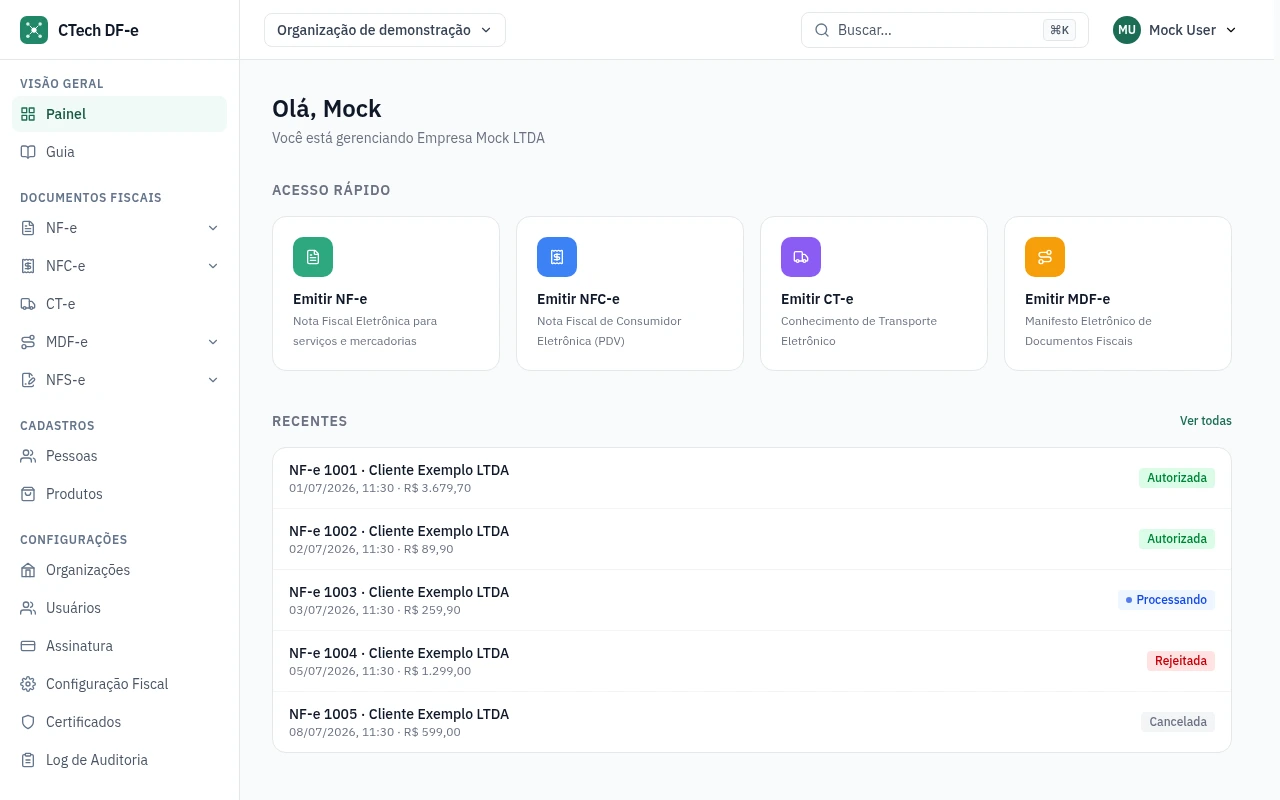
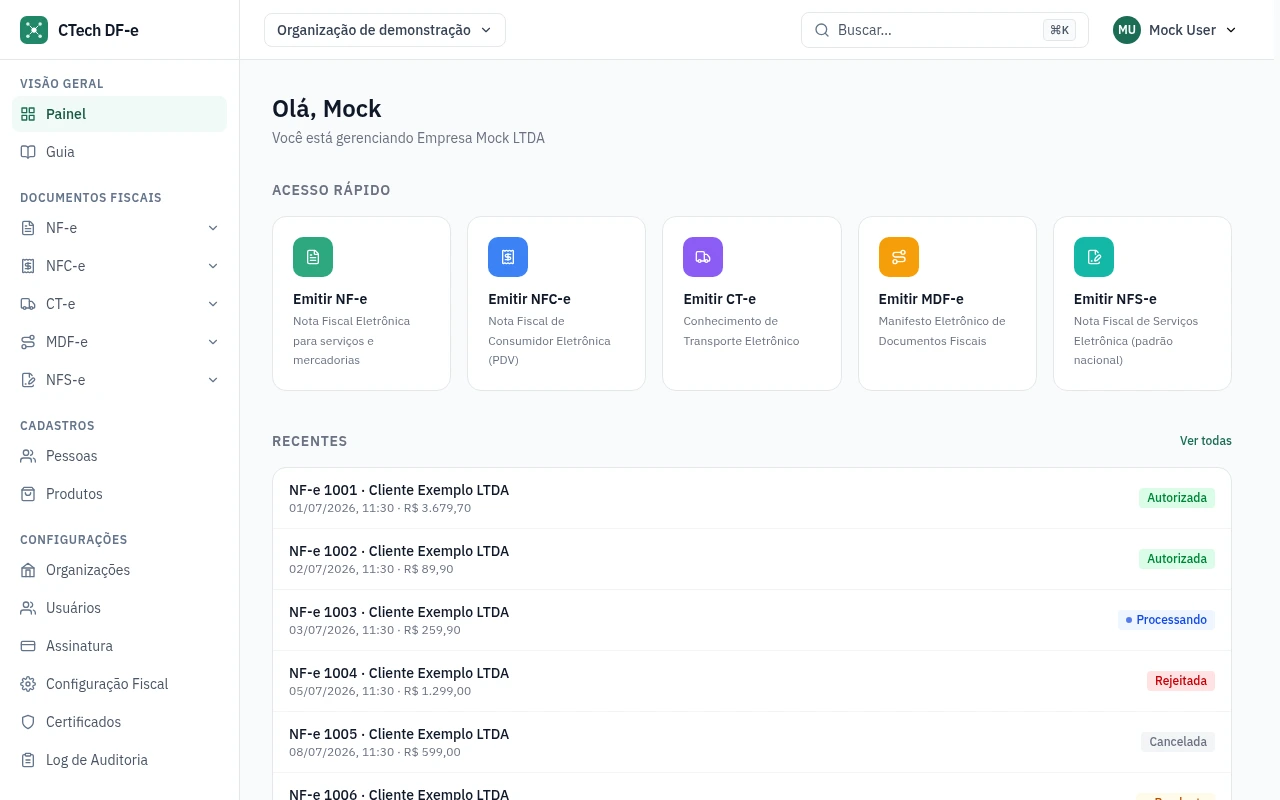
feat: planos so do produto DF-e e NFS-e na landing e no acesso rapido (#225)
- api: /billing/plans devolve apenas prod_dfe e a escolha de preco de outro produto e recusada
- ui: catalogo de planos ignora outros produtos
- ui: NFS-e entra em Documentos suportados, no card animado e no Acesso rapido da home

diff --git a/ui/src/__tests__/lib/billing-catalog.test.ts b/ui/src/__tests__/lib/billing-catalog.test.ts
@@ -19,7 +19,7 @@ describe('buildPlanOptions', () => {
   it('hides the internal plan; offering it would give away an unlimited subscription', () => {
     const products: BillingProduct[] = [
       {
-        id: 'prod_dfe_unlimited_internal',
+        id: 'prod_dfe',
         name: 'DF-e Ilimitado - Interno',
         active: true,
         prices: [price({id: 'p_internal', metadata: {plan: 'unlimited', visibility: 'internal'}})],
@@ -31,13 +31,13 @@ describe('buildPlanOptions', () => {
   it('drops archived prices and products billing has deactivated', () => {
     const products: BillingProduct[] = [
       {
-        id: 'prod_old',
+        id: 'prod_dfe',
         name: 'Antigo',
         active: false,
         prices: [price({metadata: {plan: 'pro'}})],
       },
       {
-        id: 'prod_free',
+        id: 'prod_dfe',
         name: 'DF-e Free',
         active: true,
         prices: [price({id: 'p_old', archived: true, metadata: {plan: 'free'}})],
@@ -49,7 +49,7 @@ describe('buildPlanOptions', () => {
   it('reads the quotas out of price metadata and keeps -1 as unlimited', () => {
     const products: BillingProduct[] = [
       {
-        id: 'prod_dfe_free',
+        id: 'prod_dfe',
         name: 'DF-e Free',
         active: true,
         prices: [
@@ -70,7 +70,7 @@ describe('buildPlanOptions', () => {
   it('an unreadable quota is dropped, not read as zero', () => {
     const products: BillingProduct[] = [
       {
-        id: 'prod_dfe_free',
+        id: 'prod_dfe',
         name: 'DF-e Free',
         active: true,
         prices: [price({metadata: {plan: 'free', quota_nfe: 'três'}})],
@@ -84,7 +84,7 @@ describe('buildPlanOptions', () => {
   it('composes the on-demand plan out of all of its metered prices', () => {
     const products: BillingProduct[] = [
       {
-        id: 'prod_dfe_ondemand',
+        id: 'prod_dfe',
         name: 'DF-e Sob Demanda',
         active: true,
         prices: [
@@ -117,8 +117,8 @@ describe('buildPlanOptions', () => {
   });
 
   it('orders the plans cheapest commitment first', () => {
-    const make = (id: string, plan: string): BillingProduct => ({
-      id,
+    const make = (_id: string, plan: string): BillingProduct => ({
+      id: 'prod_dfe',
       name: plan,
       active: true,
       prices: [price({id: `p_${plan}`, metadata: {plan}})],
@@ -171,8 +171,17 @@ describe('buildPlanOptions with one product holding several plans', () => {
     const options = buildPlanOptions(unified);
     expect(options.find((o) => o.plan === 'pro')?.name).toBe('DF-e Pro');
     expect(options.find((o) => o.plan === 'ondemand')?.name).toBe('DF-e Sob Demanda');
-    const bare = buildPlanOptions([{id: 'prod_x', name: 'Produto X', active: true, prices: [price({metadata: {plan: 'pro'}})]}]);
+    const bare = buildPlanOptions([{id: 'prod_dfe', name: 'Produto X', active: true, prices: [price({metadata: {plan: 'pro'}})]}]);
     expect(bare[0].name).toBe('Produto X');
   });
-});
 
+  it('ignores products of other CTech products', () => {
+    const other: BillingProduct = {
+      id: 'prod_finance',
+      name: 'CTech Finanças',
+      active: true,
+      prices: [price({id: 'price_finance_free', metadata: {plan: 'free'}})],
+    };
+    expect(buildPlanOptions([other])).toEqual([]);
+  });
+});

diff --git a/ui/src/lib/mock/fixtures.ts b/ui/src/lib/mock/fixtures.ts
@@ -720,13 +720,13 @@ export const billingPlansFixture = {
   billing_enabled: true,
   data: [
     {
-      id: 'prod_dfe_free',
+      id: 'prod_dfe',
       name: 'DF-e Free',
       active: true,
       prices: [
         {
           id: 'price_dfe_free_monthly',
-          product_id: 'prod_dfe_free',
+          product_id: 'prod_dfe',
           type: 'fixed' as const,
           unit_amount: 0,
           billing_timing: 'advance' as const,
@@ -736,13 +736,13 @@ export const billingPlansFixture = {
       ],
     },
     {
-      id: 'prod_dfe_ondemand',
+      id: 'prod_dfe',
       name: 'DF-e Sob Demanda',
       active: true,
       prices: [
         {
           id: 'price_dfe_ondemand_nfe',
-          product_id: 'prod_dfe_ondemand',
+          product_id: 'prod_dfe',
           type: 'metered' as const,
           unit_amount: 39,
           billing_timing: 'arrears' as const,
@@ -751,7 +751,7 @@ export const billingPlansFixture = {
         },
         {
           id: 'price_dfe_ondemand_nfce',
-          product_id: 'prod_dfe_ondemand',
+          product_id: 'prod_dfe',
           type: 'metered' as const,
           unit_amount: 19,
           billing_timing: 'arrears' as const,
@@ -761,13 +761,13 @@ export const billingPlansFixture = {
       ],
     },
     {
-      id: 'prod_dfe_pro',
+      id: 'prod_dfe',
       name: 'DF-e Pro',
       active: true,
       prices: [
         {
           id: 'price_dfe_pro_monthly',
-          product_id: 'prod_dfe_pro',
+          product_id: 'prod_dfe',
           type: 'fixed' as const,
           unit_amount: 14900,
           billing_timing: 'advance' as const,

diff --git a/ui/src/app/(public)/page.tsx b/ui/src/app/(public)/page.tsx
@@ -14,7 +14,7 @@ import type {DfeThemeKey} from '@/lib/theme/dfe-theme';
 const FLOW_STEPS = [
   {
     label: 'Emitir',
-    body: 'Escolha o cliente e os produtos para NF-e, NFC-e, CT-e ou MDF-e. O sistema já sabe o resto.',
+    body: 'Escolha o cliente e os produtos para NF-e, NFC-e, CT-e, MDF-e ou NFS-e. O sistema já sabe o resto.',
   },
   {
     label: 'Processar',
@@ -193,7 +193,7 @@ export default function Home() {
         <div className="mx-auto grid max-w-6xl gap-12 px-6 py-16 md:grid-cols-2 md:items-center md:py-24">
           <div className="space-y-6">
             <p className="font-mono text-xs tracking-widest text-primary-700 uppercase">
-              NF-e · NFC-e · CT-e · MDF-e
+              NF-e · NFC-e · CT-e · MDF-e · NFS-e
             </p>
             <h1 className="text-4xl font-bold leading-tight tracking-tight text-gray-900 md:text-5xl">
               Emita seus documentos fiscais de forma simples e resiliente.
@@ -217,7 +217,7 @@ export default function Home() {
 
       <section className="mx-auto max-w-6xl px-6 py-16">
         <h2 className="mb-6 text-2xl font-bold text-gray-900 md:text-3xl">Documentos suportados</h2>
-        <div className="grid grid-cols-1 gap-4 sm:grid-cols-2 md:grid-cols-4">
+        <div className="grid grid-cols-1 gap-4 sm:grid-cols-2 md:grid-cols-5">
           {DFE_DOCUMENTS.map((doc) => (
             <Link
               key={doc.code}

diff --git a/ui/src/components/landing/authorization-card.tsx b/ui/src/components/landing/authorization-card.tsx
@@ -18,6 +18,7 @@ const CAROUSEL_DOCS: CarouselDoc[] = [
   {code: 'NFC-e', modelo: 'Modelo 65', fullName: 'Nota Fiscal de Consumidor Eletrônica', theme: 'nfce'},
   {code: 'CT-e', modelo: 'Modelo 57', fullName: 'Conhecimento de Transporte Eletrônico', theme: 'cte'},
   {code: 'MDF-e', modelo: 'Modelo 58', fullName: 'Manifesto Eletrônico de Documentos Fiscais', theme: 'mdfe'},
+  {code: 'NFS-e', modelo: 'Padrão nacional', fullName: 'Nota Fiscal de Serviços Eletrônica', theme: 'nfse'},
 ];
 
 function accentFor(code: string): string {
@@ -48,7 +49,7 @@ interface AuthorizationCardProps {
 // A self-playing simulation of what actually happens when this product
 // issues a document: the XML is assembled, sent to SEFAZ, and comes back
 // with an access key and an authorization protocol. Cycles through NF-e,
-// NFC-e, CT-e and MDF-e; rests briefly on each before moving to the next.
+// NFC-e, CT-e, MDF-e and NFS-e; rests briefly on each before moving to the next.
 export function AuthorizationCard({onDocChange}: AuthorizationCardProps) {
   const [reducedMotion] = useState(prefersReducedMotion);
   const [docIndex, setDocIndex] = useState(0);

diff --git a/ui/src/lib/billing/catalog.ts b/ui/src/lib/billing/catalog.ts
@@ -43,11 +43,14 @@ function isOffered(price: BillingPrice): boolean {
  * list. Two price lists that nobody compares is how a site advertises R$ 350 and
  * the invoice charges R$ 400.
  */
+// The billing catalogue is shared by every CTech product; only this one's plans are offered.
+const DFE_PRODUCT_ID = 'prod_dfe';
+
 export function buildPlanOptions(products: BillingProduct[]): PlanOption[] {
   const options: PlanOption[] = [];
 
   for (const product of products) {
-    if (!product.active) continue;
+    if (!product.active || product.id !== DFE_PRODUCT_ID) continue;
     const offered = product.prices.filter(isOffered);
 
     // A product may hold several plans: group its prices by the plan they name.

diff --git a/ui/src/lib/constants/dfe-documents.tsx b/ui/src/lib/constants/dfe-documents.tsx
@@ -1,5 +1,5 @@
 import type {ReactNode} from 'react';
-import {CteIcon, MdfeIcon, NfceIcon, NfeIcon} from '@/components/ui/icon';
+import {CteIcon, MdfeIcon, NfceIcon, NfeIcon, NfseIcon} from '@/components/ui/icon';
 
 export interface DfeDocument {
   code: string
@@ -42,5 +42,13 @@ export const DFE_DOCUMENTS: DfeDocument[] = [
     href: '/mdfe',
     icon: <MdfeIcon/>,
     accent: '#f59e0b',
+  },
+  {
+    code: 'NFS-e',
+    title: 'Emitir NFS-e',
+    description: 'Nota Fiscal de Serviços Eletrônica (padrão nacional)',
+    href: '/nfse/emit',
+    icon: <NfseIcon/>,
+    accent: '#14b8a6',
   },
 ];

diff --git a/ui/src/app/dashboard/page.tsx b/ui/src/app/dashboard/page.tsx
@@ -32,7 +32,7 @@ function DashboardContent() {
           <h2 className="text-sm font-semibold text-gray-500 uppercase tracking-wider mb-4">
             Acesso rápido
           </h2>
-          <div className="grid grid-cols-1 sm:grid-cols-2 lg:grid-cols-4 gap-4">
+          <div className="grid grid-cols-1 sm:grid-cols-2 lg:grid-cols-5 gap-4">
             {quickActions.map((action) => (
               <Link
                 key={action.href}

diff --git a/api/internal/services/billing.go b/api/internal/services/billing.go
@@ -55,6 +55,11 @@ const (
 
 const mdfeScopeOwnFleet = "frota_propria"
 
+// dfeProductID is this service's product in the shared billing catalogue. The
+// catalogue is tenant-wide (Finanças, Billing, ...); only this product's plans
+// may be shown or chosen here.
+const dfeProductID = "prod_dfe"
+
 // visibilityInternal names a price that exists to be granted, never sold: the
 // R$ 0 unlimited the CTech team and the first two customers run on.
 //
@@ -510,9 +515,21 @@ func (s *BillingService) Plans(ctx context.Context) ([]billingclient.Product, er
 	if err != nil {
 		return nil, err
 	}
-	products = sellable(products)
+	products = sellable(ownProduct(products))
 	CacheSet(ctx, s.cache, catalogCacheKey, products, catalogCacheTTL)
 	return products, nil
+}
+
+// ownProduct keeps only this service's product. Plans feeds both the picker and
+// validatePrices, so a price of another product is neither shown nor accepted.
+func ownProduct(products []billingclient.Product) []billingclient.Product {
+	out := make([]billingclient.Product, 0, 1)
+	for _, p := range products {
+		if p.ID == dfeProductID {
+			out = append(out, p)
+		}
+	}
+	return out
 }
 
 // sellable drops what no customer may subscribe to: archived prices, products

diff --git a/api/internal/services/billing_test.go b/api/internal/services/billing_test.go
@@ -440,3 +440,17 @@ func TestTwoPlansOfOneProductAreRefused(t *testing.T) {
 		t.Fatal("a subscription mixing two plans of the same product was accepted")
 	}
 }
+
+func TestOwnProductDropsOtherProductsPlans(t *testing.T) {
+	products := []billingclient.Product{
+		{ID: "prod_finance", Active: true, Prices: []billingclient.Price{{ID: "price_finance_free", Metadata: map[string]string{"plan": "free"}}}},
+		{ID: "prod_dfe", Active: true, Prices: []billingclient.Price{{ID: "price_dfe_v2_free", Metadata: map[string]string{"plan": "free"}}}},
+	}
+	own := sellable(ownProduct(products))
+	if len(own) != 1 || own[0].ID != "prod_dfe" {
+		t.Fatalf("catalogue = %+v, want only prod_dfe", own)
+	}
+	if err := ValidatePriceSelection(own, []string{"price_finance_free"}); err == nil {
+		t.Fatal("a price of another product was accepted")
+	}
+}

diff --git a/DOCS.md b/DOCS.md
@@ -755,7 +755,7 @@ company's organization (`organization_id` on the local company record).
 
 | Method | Endpoint | Access | Description |
 |--------|----------|--------|-------------|
-| GET    | `/v1.0/billing/plans`                | qualquer sessão | Catálogo vindo do ctech-billing, com as cotas em `metadata` de cada preço |
+| GET    | `/v1.0/billing/plans`                | qualquer sessão | Catálogo vindo do ctech-billing, com as cotas em `metadata` de cada preço; só o produto `prod_dfe` (o catálogo é compartilhado com Finanças, Billing etc.). POST /subscription e /change recusam preço de outro produto |
 | GET    | `/v1.0/billing/subscription`         | qualquer membro | Situação da assinatura da organização + `usage`, `organization {id, name}` e `manageable` |
 | POST   | `/v1.0/billing/subscription`         | owner/admin (conta CTech) | Escolhe um plano; 409 se já houver assinatura viva |
 | POST   | `/v1.0/billing/subscription/change`  | owner/admin (conta CTech) | Troca de plano com pró-rata |
